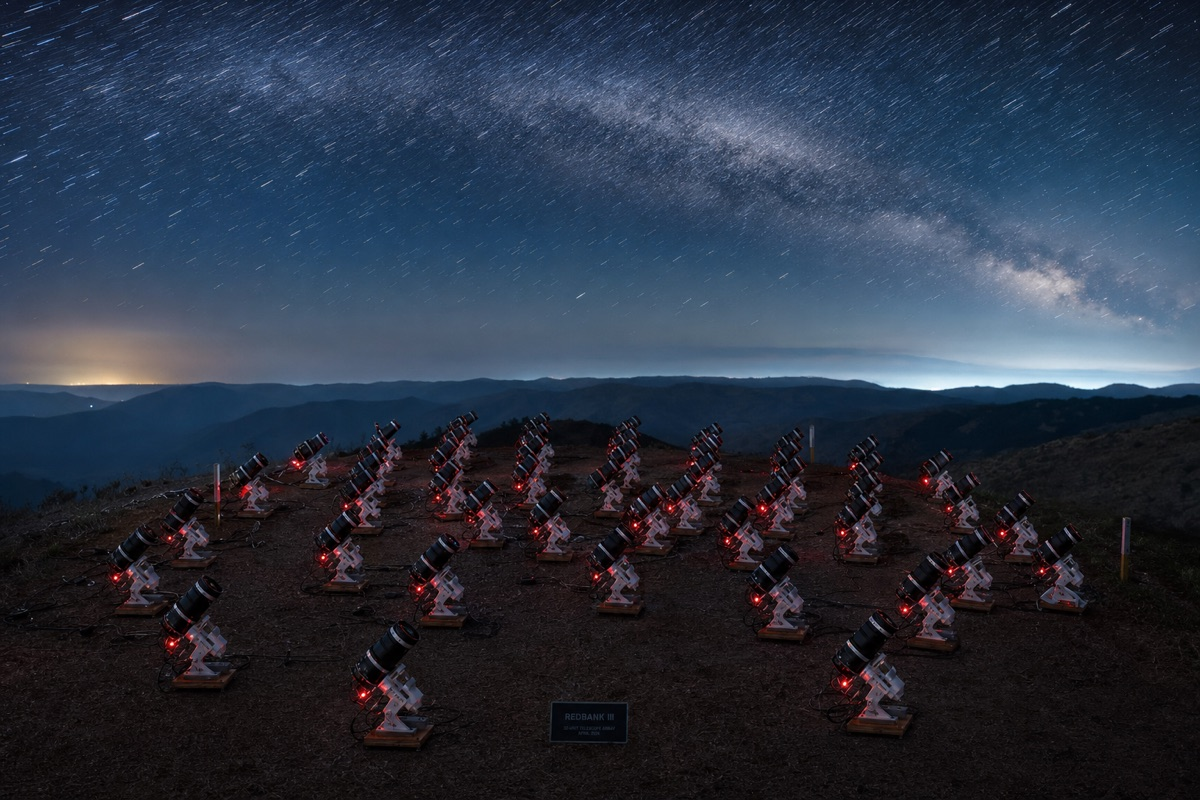
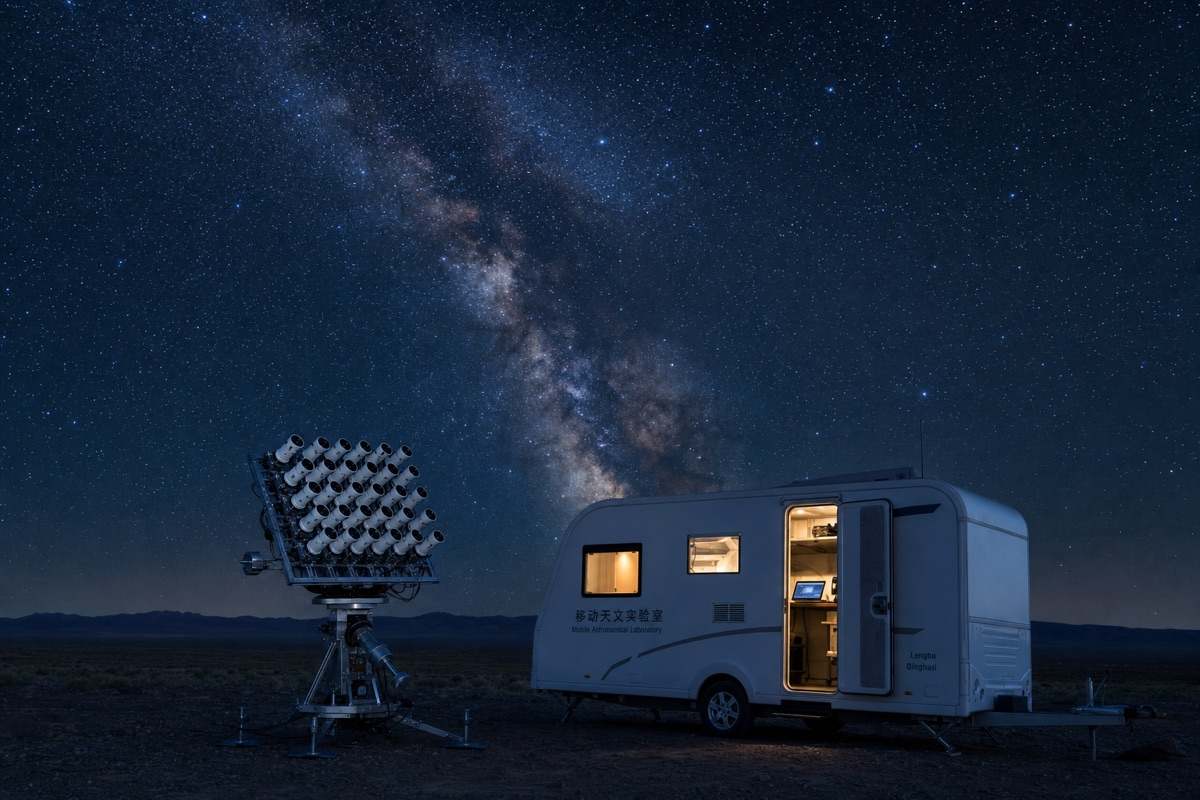
fix: array concept — 32 units on ONE portable mount + white RV lab trailer
The array was previously shown as telescopes spread across a hilltop.
Regenerated as a compact grid on a single portable shared mount, with a
white RV/caravan mobile laboratory beside it. Updated concept.array text
(zh/en/fr).

diff --git a/src/i18n/ui.js b/src/i18n/ui.js
@@ -42,7 +42,7 @@ export const ui = {
     'concept.detail': '单体细节 · Detail',
     'concept.detail.desc': 'IMX 传感器 + 3D 打印镜筒 + 红色阳极氧化铝环。',
     'concept.array': '阵列 · Array',
-    'concept.array.desc': '32 镜螺旋阵列, 星轨之下协同指向同一天区。',
+    'concept.array.desc': '32 镜阵列集中在单一便携式托架上, 旁边是基于房车拖车的白色移动实验室。',
     'concept.radar': '红岸 · 冷湖',
     'concept.radar.desc': '青海冷湖大荒原的山顶 — 没有人类灯光, 只有银河星空下的 32 镜阵列。这是红岸三号理想的家。',
     'story.title': '从红岸到红岸三号',
@@ -85,7 +85,7 @@ export const ui = {
     'concept.detail': 'Unit detail',
     'concept.detail.desc': 'IMX sensor + 3D-printed barrel + red anodized aluminum ring.',
     'concept.array': 'Array',
-    'concept.array.desc': 'A 32-unit spiral array under star trails, all aimed at the same patch of sky.',
+    'concept.array.desc': 'The 32-unit array on a single portable mount, beside a white mobile laboratory built from an RV trailer.',
     'concept.radar': 'Redbank · Lenghu',
     'concept.radar.desc': 'A barren mountaintop in the Lenghu wilderness of Qinghai — no human lights, only the Milky Way above the 32-unit array. The ideal home for Redbank III.',
     'story.title': 'From Redbank to Redbank III',
@@ -128,7 +128,7 @@ export const ui = {
     'concept.detail': 'Détail de l\'unité',
     'concept.detail.desc': 'Capteur IMX + barillet imprimé en 3D + anneau en aluminium anodisé rouge.',
     'concept.array': 'Réseau',
-    'concept.array.desc': 'Un réseau spiral de 32 unités sous les traînées d\'étoiles, toutes pointées vers la même région du ciel.',
+    'concept.array.desc': 'Le réseau de 32 unités sur une seule monture portable, à côté d\'un laboratoire mobile blanc aménagé dans une caravane.',
     'concept.radar': 'Redbank · Lenghu',
     'concept.radar.desc': 'Un sommet aride dans le désert de Lenghu, Qinghai — aucune lumière humaine, seulement la Voie lactée au-dessus du réseau de 32 unités. La maison idéale de Redbank III.',
     'story.title': 'De Redbank à Redbank III',
